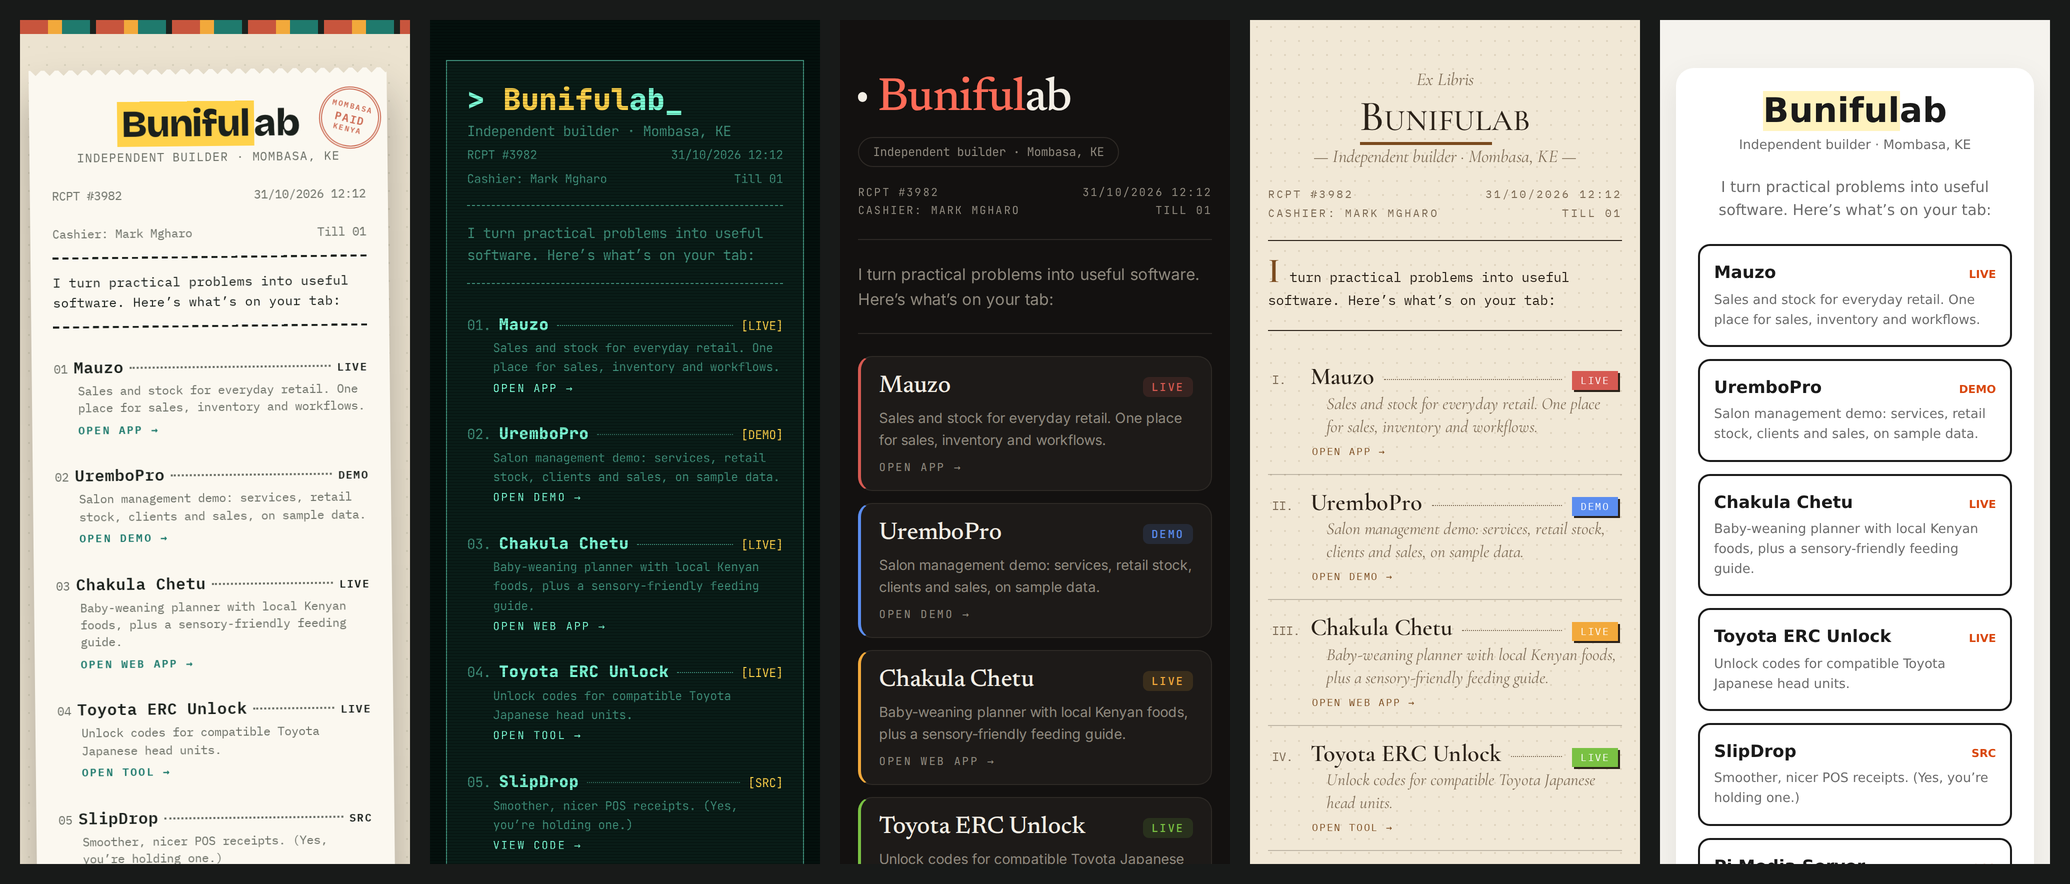
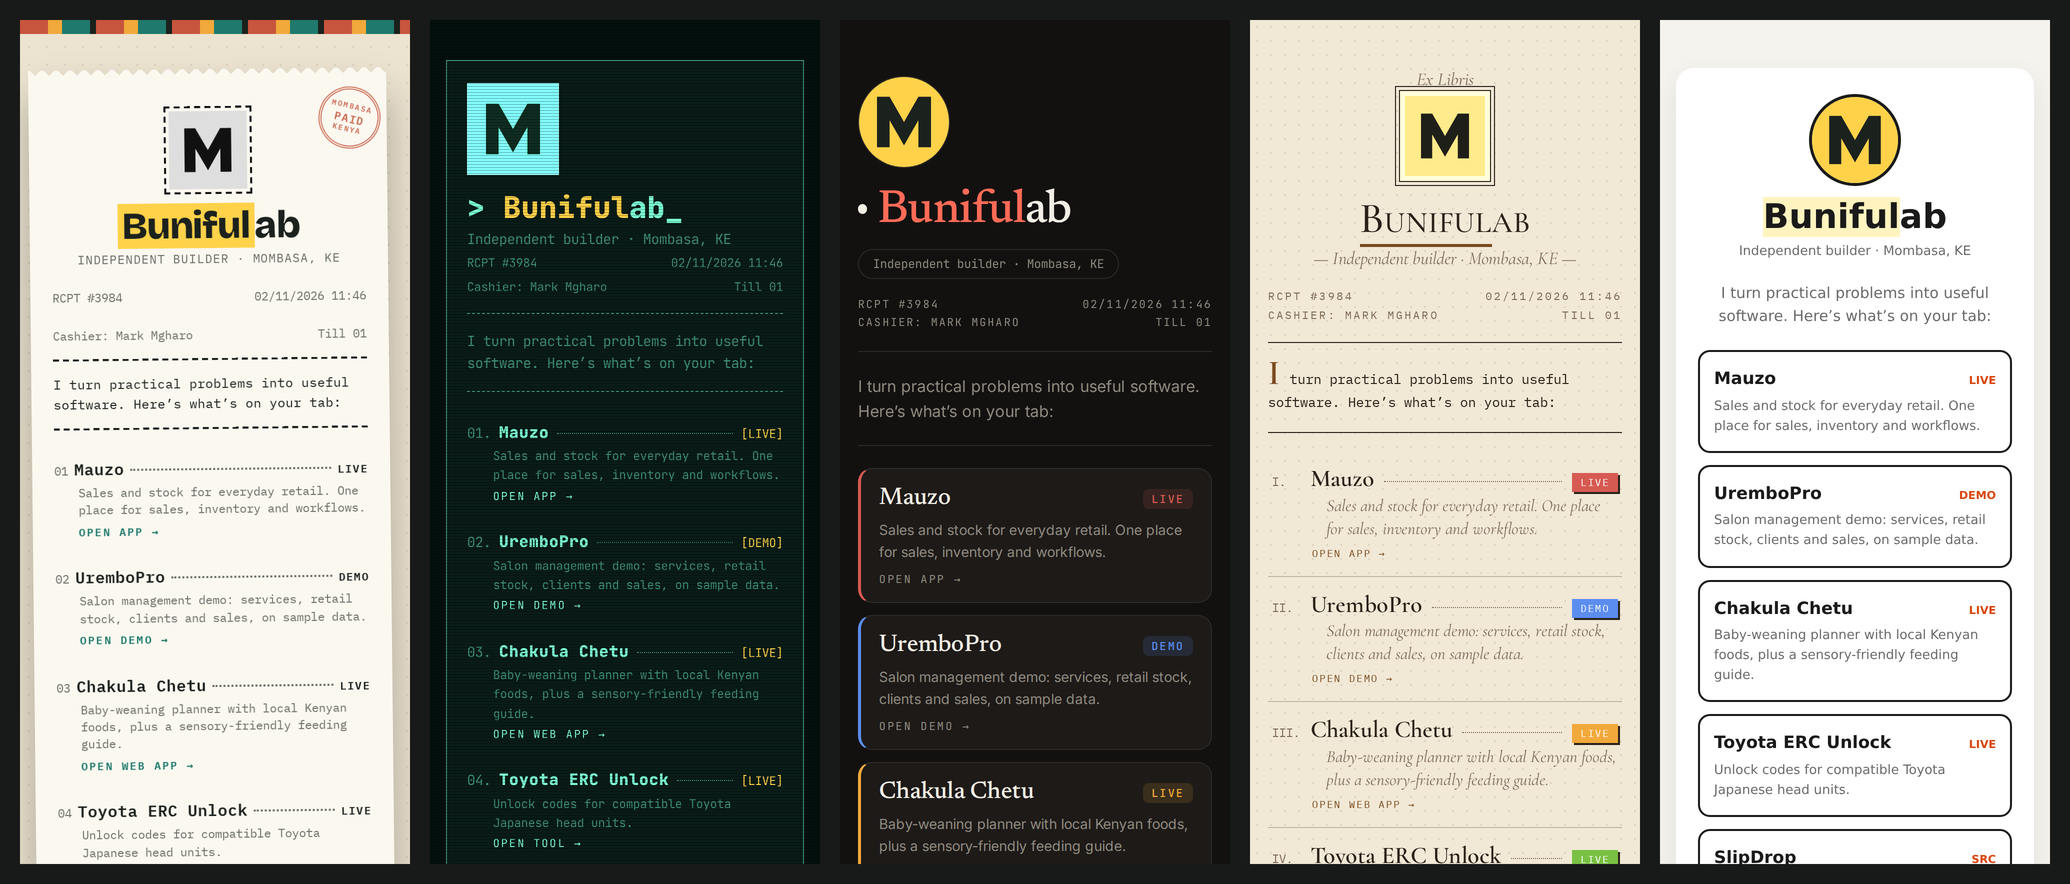
Add GitHub Pages workflow and picture slots

diff --git a/config.js b/config.js
@@ -6,21 +6,23 @@
    ============================================================ */
 window.LINKTREE = {
   theme: "receipt",   // receipt · terminal · dark · library · starter
-  themes: ["receipt", "terminal", "dark", "library", "starter"],   
+  themes: ["receipt", "terminal", "dark", "library", "starter"],   // used by the optional picker
 
   profile: {
     name: "Bunifulab",
-    highlight: "Bunifu",               
+    highlight: "Buniful",               // optional: part of the name to highlight
     owner: "Mark Mgharo",
+    avatar: "assets/avatar.svg",         // optional profile picture (square works best). "" = none
     tagline: "Independent builder · Mombasa, KE",
     intro: "I turn practical problems into useful software. Here’s what’s on your tab:"
   },
 
-  
+  /* optional small text rows (themes may style or hide them) */
   meta: { ref: "RCPT", lines: ["Cashier: Mark Mgharo", "Till 01"] },
 
   links: [
     { title: "Mauzo", color: "#d65a52", tag: "LIVE", cta: "OPEN APP →",
+      // image: "assets/mauzo.png",      // optional project picture (16:9 works best)
       desc: "Sales and stock for everyday retail. One place for sales, inventory and workflows.",
       url: "https://bunifulab.pythonanywhere.com/accounts/login/" },
     { title: "UremboPro", color: "#5b8def", tag: "DEMO", cta: "OPEN DEMO →",
@@ -40,7 +42,7 @@ window.LINKTREE = {
       url: "https://github.com/stickmanKE" }
   ],
 
-  
+  /* small stat rows + a headline total (optional) */
   summary: [
     { label: "Items shipped", value: "6" },
     { label: "Bugs (claimed)", value: "0" },
@@ -56,7 +58,7 @@ window.LINKTREE = {
     ]
   },
 
-  
+  /* contact form: WhatsApp number in international format, no "+" */
   contact: {
     recipient: "Mark",
     whatsapp: "254715197114",
@@ -68,11 +70,11 @@ window.LINKTREE = {
   },
 
   thanks: { title: "Asante, karibu tena.", text: "Keep this receipt. No refunds, only updates." },
-  stamp: { top: "MOMBASA", main: "PAID", bottom: "KENYA" },   
+  stamp: { top: "MOMBASA", main: "PAID", bottom: "KENYA" },   // themes decide whether to show it
   footer: "© 2026 Mark Mgharo / Bunifulab · Made with intent in Mombasa",
 
   features: {
-    tear: true,    
-    picker: true    
+    tear: true,     // false = contact form is simply open, no tear strip
+    picker: true    // shows a theme switcher at the bottom: great for demos, turn off on your real page
   }
 };

diff --git a/app.js b/app.js
@@ -20,6 +20,13 @@
     return e;
   }
   function L(e) { e.classList.add("line"); e.style.setProperty("--i", n++); return e; }
+  /* optional picture: returns null when no path is given; drops itself if the file can't load */
+  function pic(src, cls, alt) {
+    if (!src) return null;
+    var i = h("img", { "class": cls, src: src, alt: alt || "", loading: "lazy", decoding: "async" });
+    i.addEventListener("error", function () { i.remove(); });
+    return i;
+  }
   function ext(href) { return /^https?:/.test(href) ? { target: "_blank", rel: "noopener" } : {}; }
   var $ = function (id) { return document.getElementById(id); };
 
@@ -29,7 +36,7 @@
 
   var name = P.name || "", hl = P.highlight || "";
   var logo = h("h1", { "class": "logo" }, hl && name.indexOf(hl) === 0 ? [h("span", { text: hl }), name.slice(hl.length)] : [name]);
-  card.appendChild(L(h("header", { "class": "top" }, [logo, P.tagline && h("p", { "class": "sub", text: P.tagline })])));
+  card.appendChild(L(h("header", { "class": "top" }, [pic(P.avatar, "avatar", P.owner || P.name), logo, P.tagline && h("p", { "class": "sub", text: P.tagline })])));
 
   var M = C.meta || {}, ml = M.lines || [];
   var d = new Date(), p2 = function (x) { return String(x).padStart(2, "0"); };
@@ -47,6 +54,7 @@
       h("span", { "class": "row" }, [h("span", { "class": "n", text: p2(i + 1) }), h("span", { "class": "name", text: it.title }),
         h("span", { "class": "dots" }), it.tag && h("span", { "class": "tag", text: it.tag })]),
       it.desc && h("span", { "class": "d", text: it.desc }),
+      pic(it.image, "thumb", it.imageAlt || it.title + " preview"),
       it.cta && h("span", { "class": "go", text: it.cta })]);
     if (it.color) a.style.setProperty("--c", it.color);   /* themes read it as var(--c) */
     card.appendChild(L(a));

diff --git a/core.css b/core.css
@@ -46,3 +46,7 @@ a:focus-visible,button:focus-visible,input:focus-visible,textarea:focus-visible{
 .picker{display:flex;flex-wrap:wrap;gap:8px;justify-content:center;margin-top:18px}
 .picker a{display:flex;align-items:center;min-height:36px;padding:0 14px;border:1px solid currentColor;border-radius:99px;color:var(--muted,#888);text-decoration:none;font:500 12px var(--font-body,inherit);opacity:.75}
 .picker a[aria-current]{opacity:1;color:var(--ink,inherit);background:var(--hl,transparent)}
+
+/* optional pictures: profile.avatar and links[].image */
+.avatar{display:block;width:92px;height:92px;margin:0 auto 14px;border-radius:50%;object-fit:cover;background:var(--hl,#ddd)}
+.thumb{display:block;width:100%;aspect-ratio:16/9;max-height:210px;object-fit:cover;margin:10px 0 2px;border-radius:var(--img-radius,6px);background:var(--hl,#ddd)}

diff --git a/themes/receipt.css b/themes/receipt.css
@@ -103,3 +103,5 @@ a:focus-visible,button:focus-visible,input:focus-visible,textarea:focus-visible{
 @media (min-width:1400px){main{max-width:560px}}
 @media (max-height:520px) and (orientation:landscape){main{padding-top:24px}}
 @media (max-width:520px){.logo{font-size:38px}.stamp{top:10px;right:6px;width:62px;height:62px;font-size:7.5px}.stamp b{font-size:11px}}
+.avatar{width:88px;height:88px;border-radius:0;padding:3px;border:2px dashed var(--ink);background:none;filter:grayscale(1) contrast(1.15);mix-blend-mode:multiply}
+.thumb{width:calc(100% - 24px);margin-left:24px;border-radius:0;border:1px dashed var(--muted);background:none;filter:grayscale(1) contrast(1.1);mix-blend-mode:multiply}

diff --git a/themes/library.css b/themes/library.css
@@ -60,3 +60,5 @@ main{max-width:640px;margin:0 auto;padding:48px 18px 80px}
 .tear .perf{border-top:2px dashed var(--muted)}
 .foot{text-align:center;margin-top:34px;font-size:11px;letter-spacing:.08em;color:var(--muted)}
 @media (min-width:900px){main{max-width:700px;padding-top:80px}}
+.avatar{border-radius:0;padding:5px;background:var(--bg);border:1px solid var(--ink);outline:1px solid var(--ink);outline-offset:3px;filter:sepia(.55) contrast(1.05)}
+.thumb{--img-radius:0;width:calc(100% - 3.2em);margin-left:3.2em;padding:4px;background:var(--bg);border:1px solid var(--ink);filter:sepia(.45)}

diff --git a/themes/terminal.css b/themes/terminal.css
@@ -38,3 +38,5 @@ main{max-width:640px;margin:0 auto;padding:40px 16px 80px}
 .slip .btns>*{background:transparent;color:var(--ink);border:1px solid var(--ink)}
 .foot{text-align:center;margin-top:28px;font-size:11px;color:var(--muted)}
 @media (min-width:900px){main{padding-top:80px}.logo{font-size:38px}}
+.avatar{margin:0 0 16px;border-radius:0;border:1px solid var(--ink);filter:grayscale(1) sepia(1) hue-rotate(105deg) saturate(2.4)}
+.thumb{width:calc(100% - 26px);margin-left:26px;border-radius:0;border:1px solid var(--muted);filter:grayscale(1) sepia(1) hue-rotate(105deg) saturate(2)}

diff --git a/themes/dark.css b/themes/dark.css
@@ -54,3 +54,5 @@ main{max-width:640px;margin:0 auto;padding:56px 18px 80px}
 .foot{text-align:center;margin-top:34px;font:11px var(--mono);color:var(--muted)}
 @media (max-width:480px){.stats{grid-template-columns:1fr 1fr}.stats .sum:last-child{grid-column:1/-1}}
 @media (min-width:900px){main{padding-top:88px}}
+.avatar{margin:0 0 20px;border:1px solid var(--line)}
+.thumb{--img-radius:10px;border:1px solid var(--line)}

diff --git a/themes/starter.css b/themes/starter.css
@@ -41,3 +41,5 @@ main{max-width:460px;margin:0 auto;padding:48px 16px 72px}
 .thanks{text-align:center;color:var(--muted);font-size:13px;margin:18px 0 0}.thanks b{display:block;color:var(--ink)}
 .tearwrap{margin:20px -22px -26px}
 .foot{text-align:center;margin-top:26px;font-size:12px;color:var(--muted)}
+.avatar{border:3px solid var(--ink)}
+.thumb{--img-radius:10px}

diff --git a/README.md b/README.md
@@ -30,6 +30,9 @@ index.html      thin shell (edit the <title> and share-preview tags by hand)
 config.js       ALL your content: name, links, socials, contact. Start here.
 core.css        shared mechanics (animation, tear strip, form basics). Rarely edited.
 app.js          builds the page from config.js. No need to edit.
+assets/         your pictures (optional): profile photo, project images
+.github/workflows/pages.yml   publishes the site to a gh-pages branch automatically
+docs/           screenshots for this README (not published to your site)
 themes/
   receipt.css   thermal till slip: torn paper, stamp, barcode
   terminal.css  teal on black, blinking cursor
@@ -42,7 +45,7 @@ themes/
 1. Open `config.js` and replace the name, links, socials and contact details.
 2. Set `theme:` to `"receipt"`, `"terminal"`, `"dark"`, `"library"` or `"starter"`. Preview any of them with `?theme=terminal` on the URL.
 3. Edit the `<title>` and `<meta>` tags in `index.html` so shared links look right.
-4. Put the folder on GitHub and deploy (below).
+4. Put it on GitHub and publish it for free (see [Host it on GitHub Pages](#host-it-free-on-github-pages)).
 
 ## 2. Create your own theme
 1. Copy `themes/starter.css` to `themes/mylook.css`.
@@ -60,8 +63,8 @@ Rules of thumb:
 ## 3. Config reference
 | Key | What it does |
 | --- | --- |
-| `profile` | name, highlighted part of the name, owner, tagline, intro line |
-| `links[]` | `title`, `url`, `desc`, `tag` (LIVE/DEMO…), `cta` (button text), `color` (optional accent used by the dark and library themes) |
+| `profile` | name, highlighted part of the name, owner, tagline, intro line, `avatar` (optional picture) |
+| `links[]` | `title`, `url`, `desc`, `tag` (LIVE/DEMO…), `cta` (button text), `color` (optional accent used by the dark and library themes), `image` (optional project picture) |
 | `summary[]`, `total` | optional stat rows; themes may hide them |
 | `connect.socials[]` | buttons such as GitHub, TikTok, Instagram |
 | `contact` | `whatsapp` (international format, no +), `email`, `dm` link, form wording |
@@ -71,9 +74,35 @@ Rules of thumb:
 
 All config text is inserted as plain text, so characters like `<` or `&` are safe.
 
-## 4. Deploy
-- **Vercel / Netlify:** import the repo, no build command, output directory is the repo root.
-- **GitHub Pages:** Settings > Pages > deploy from `main`, root.
+## 4. Pictures (optional)
+Put images in `assets/` and point to them from `config.js`. Leave a field out and nothing is shown.
+
+```js
+profile: { avatar: "assets/me.jpg", ... }          // profile picture, square works best
+links: [{ title: "Mauzo", image: "assets/mauzo.png", ... }]   // project picture, 16:9 works best
+```
+- A path that doesn't load is hidden automatically, so you never get a broken-image icon.
+- Each theme styles pictures to match: grayscale thermal print on `receipt`, green phosphor on `terminal`, sepia plates on `library`.
+- Keep each file under about 200 KB (resize before uploading) so the page stays fast on mobile data.
+
+## Host it free on GitHub Pages
+No domain, no server, no new repo per page. One repository holds your page, and a small workflow publishes only the website files to a `gh-pages` branch.
+
+1. Click **Use this template > Create a new repository** (make it public). The repo name becomes part of your address, so `tawi` gives you `https://YOUR-USERNAME.github.io/tawi/`.
+2. Open `config.js` in GitHub (pencil icon), put in your own name, links and WhatsApp number, and commit. Set `features.picker` to `false`.
+3. Open the **Actions** tab (click enable if it asks). **Publish to gh-pages** runs on every commit and creates the `gh-pages` branch in about 30 seconds.
+4. Go to **Settings > Pages**, set Source to **Deploy from a branch**, choose `gh-pages` and `/ (root)`, and save.
+5. In about a minute your page is live. Every later commit to `main` republishes it automatically.
+
+### Use your own domain (optional)
+1. Add a file named `CNAME` at the top of the repo containing just your domain, for example `tawi.alexmbugua.me`.
+2. At your DNS provider add a record: type `CNAME`, name `tawi`, value `YOUR-USERNAME.github.io`.
+3. In **Settings > Pages > Custom domain** enter the domain, and tick **Enforce HTTPS** once GitHub's DNS check passes.
+
+Use the `CNAME` file rather than typing the domain only in settings: the workflow copies the file onto `gh-pages` every time, so your domain survives updates. For a bare domain without a subdomain, GitHub's custom-domain docs list the A records to use.
+
+### Other hosts
+Vercel and Netlify also work: import the repo, no build command, output directory is the repo root.
 
 ## Notes
 - Link previews (WhatsApp, X, etc.) read `index.html` only, so set the `og:` tags there.

diff --git a/assets/README.md b/assets/README.md
@@ -1,0 +1,6 @@
+Put your pictures here, then point to them in `config.js`:
+
+- `profile.avatar: "assets/me.jpg"` for your profile picture
+- `image: "assets/project.png"` on any link for a project picture
+
+Tips: keep each file under ~200 KB (resize before uploading), square for the avatar, 16:9 for project pictures.
